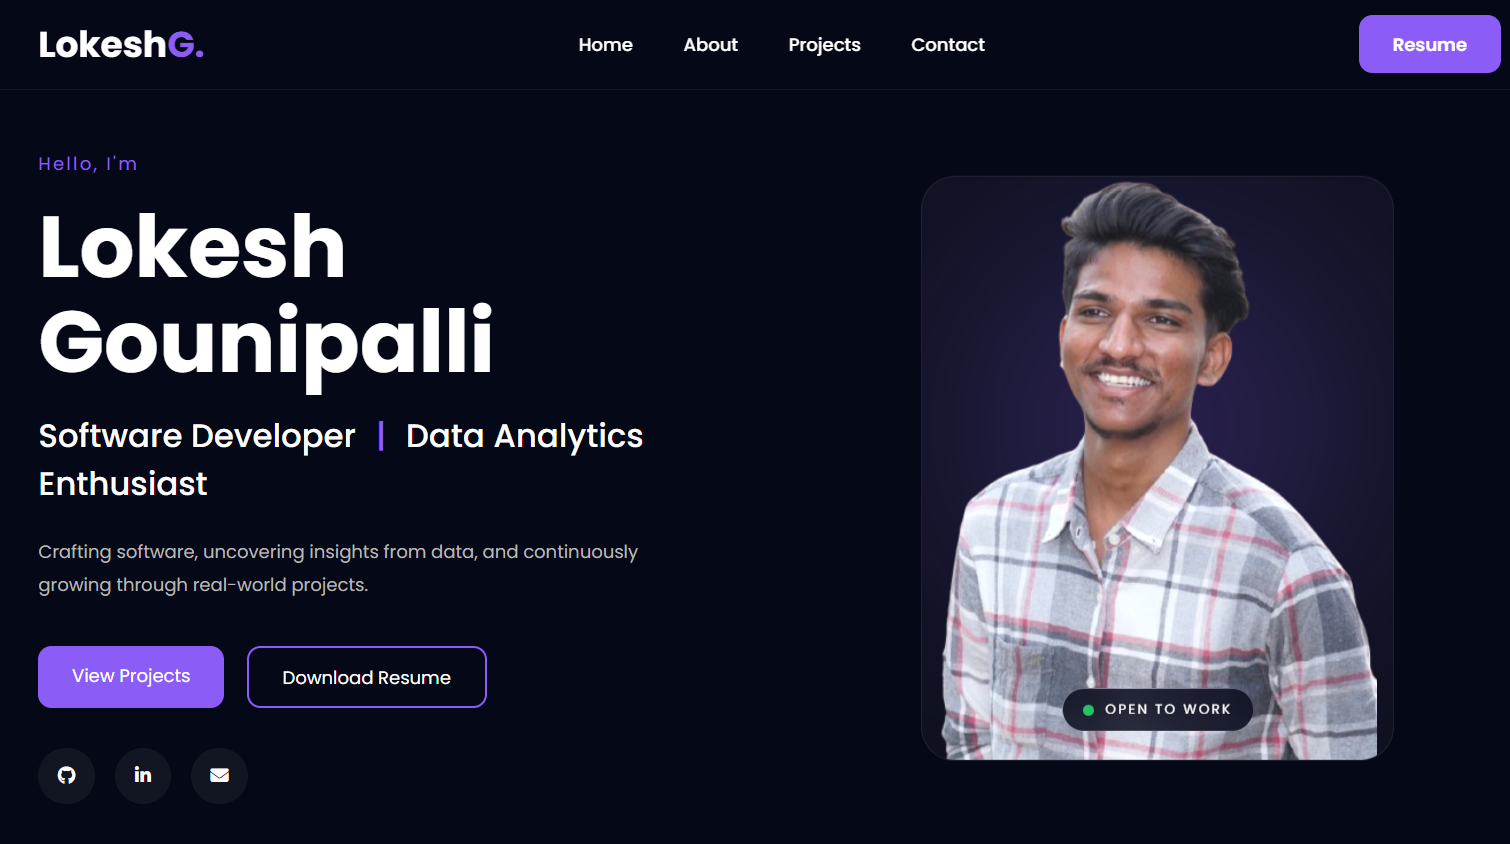
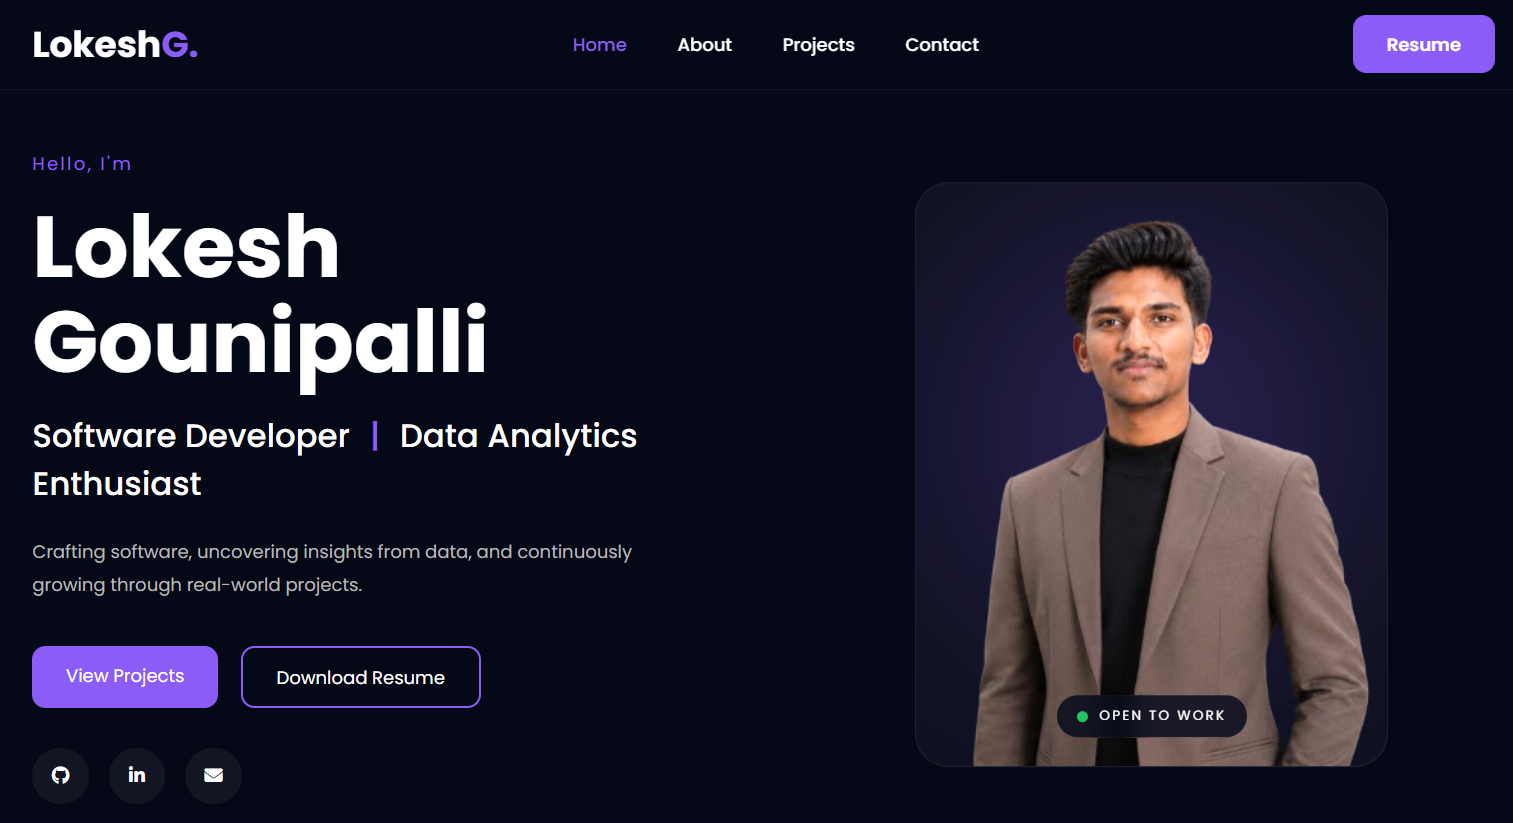
Updated profile picture

diff --git a/style.css b/style.css
@@ -301,11 +301,16 @@ header{
 
     width:390px;
 
+    transform:scale(1.25);
+
+    transform-origin:bottom center;
+
     position:relative;
 
     z-index:2;
 
     filter:brightness(1.08);
+    
 
 }
 
